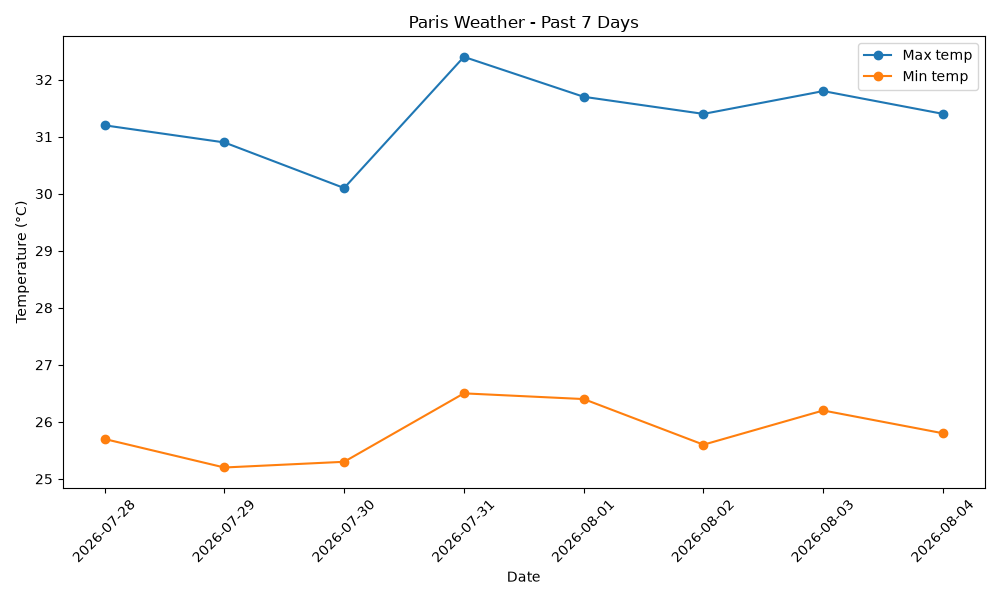
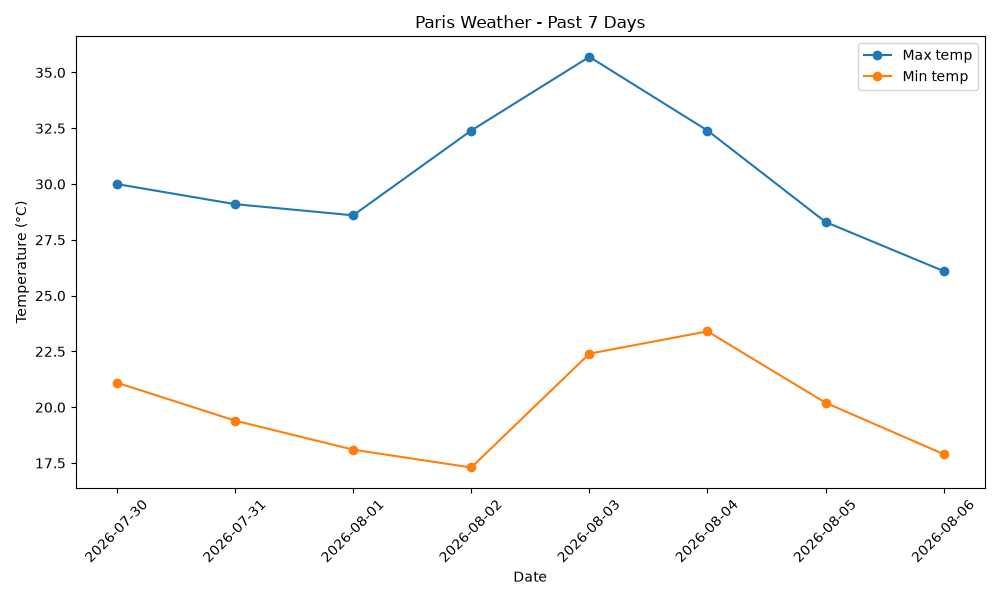
started working with os

diff --git a/Working_with_data/getting_7_days_of_data.py b/Working_with_data/getting_7_days_of_data.py
@@ -2,13 +2,14 @@ import requests
 from datetime import datetime, timedelta
 import pandas as pd
 import matplotlib.pyplot as plt
+import os
 
 today = datetime.now()
 week_ago = today - timedelta(days=7)
 
 #location
-latitude = 23.777
-longitude = 90.399
+latitude = 48.85
+longitude = 2.35
 
 #formate the dates
 
@@ -56,3 +57,9 @@ plt.tight_layout()
 # Save the plot
 plt.savefig('weather_chart.png')
 plt.show()
+
+if not os.path.exists('data'):
+    os.makedirs('data')
+
+data_frame.to_csv('data/paris_weather.csv', index=False)
+print("Data saved to data/paris_weather.csv")

diff --git a/sales-analysis/analyzer.py b/sales-analysis/analyzer.py
@@ -1,0 +1,12 @@
+import os
+
+# Check if we're in the right place
+print("Current directory:", os.getcwd())
+
+# Check if our data file exists
+data_path = "data/sales.csv"
+if os.path.exists(data_path):
+    print(f"✅ Found {data_path}")
+else:
+    print(f"❌ Cannot find {data_path}")
+    print("Make sure you're running from the sales-analysis folder!")
